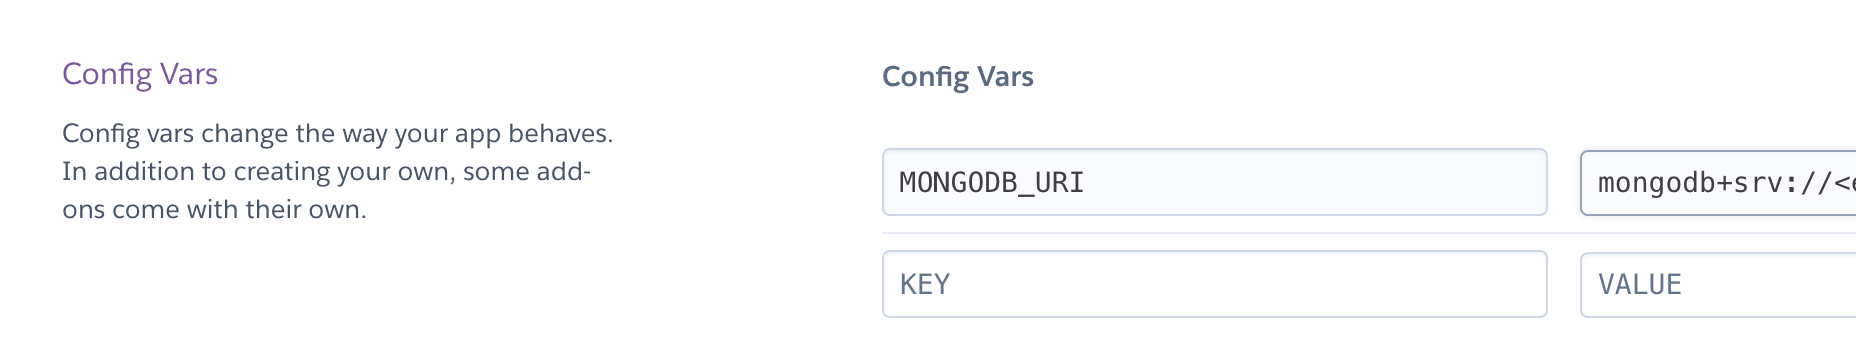
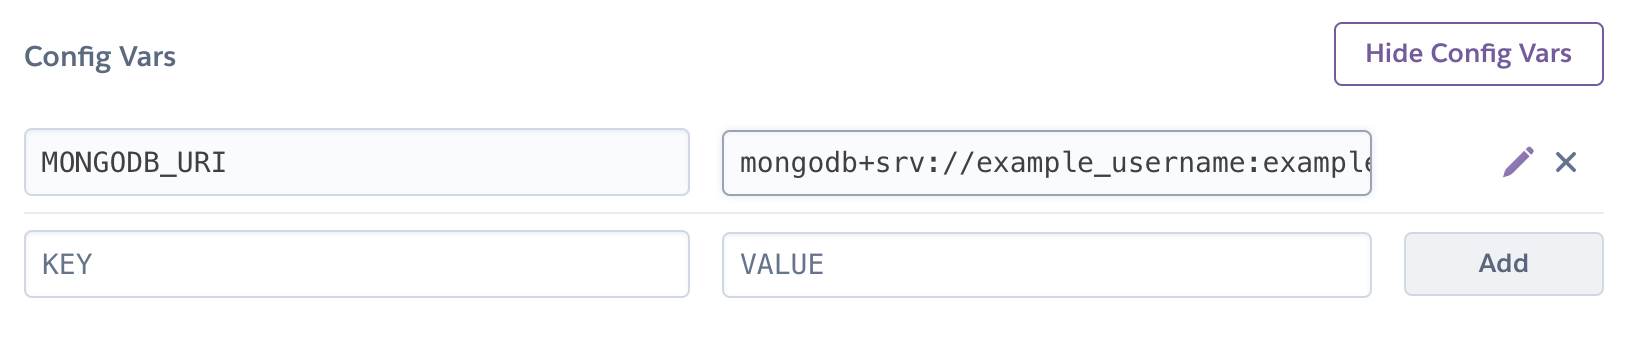
Further updates on Deploy doc

diff --git a/docs/DEPLOY.md b/docs/DEPLOY.md
@@ -11,11 +11,11 @@
 ### Step 1: Set up MongoDB
 
 - Create Atlas cluster
-![Shared Cluster](docs/images/Screenshot-1.png)
+![Shared Cluster](images/Screenshot-1.png)
 - Create username and password
-![username](docs/images/Screenshot-7.png)
+![username](images/Screenshot-7.png)
 - Add IP 0.0.0.0/0 to allow access from all IPs
-![IP](docs/images/Screenshot-10.png)
+![IP](images/Screenshot-10.png)
 - Wait for cluster to be created
 - Press connect button
   - Connect using MongoDB's native drivers
@@ -39,11 +39,11 @@
 
 - Go to APIs & Services > Credentials 
 - Press create credentials button > OAuth client ID
-![Creds](docs/images/Screenshot-2.png)
+![Creds](images/Screenshot-2.png)
 - Select Web Application as application type
 - Name the client ID whatever you would like
   - Go to `src/config/passport.ts` and replace clientID's string with your own as well as clientSecret's string with your own
-  ![passport](docs/images/Screenshot-3.png)
+  ![passport](images/Screenshot-3.png)
   - Commit and push diffs
     - `git add src/config/passport.ts`
     - `git commit -m "(any commit message you'd like)"`
@@ -57,11 +57,12 @@
 - Create new Heroku app
 - Connect to fork (under your personal account)
 - Go to app's settings tab
+  - Reveal config vars
   - Create new config var
   - Key is `MONGODB_URI`
   - Value is the connection string from step 1
   - Remeber to enter your username and password into the specified fields of the connection string
-  ![connection_string](docs/images/Screenshot-9.png)
+  ![connection_string](images/Screenshot-9.png)
   - Also remeber that the string should not include the <> characters.
   - Ex: mongod+srv:username:password@cluster0..
 - Choose GitHub for deployment method
@@ -69,9 +70,9 @@
 
 ### Step 5: Set up Google Auth authorization
 - Authorized JavaScript origins should have `http://localhost:5000` as well as your heroku URL (https)
-![passport](docs/images/Screenshot-5.png)
+![passport](images/Screenshot-5.png)
 - Authorized redirect URIs should have `http://localhost:5000/api/v1/auth/google/callback` as well as your heroku URL (https) with `/api/v1/auth/google/callback` appended to the end
-![passport](docs/images/Screenshot-6.png)
+![passport](images/Screenshot-6.png)
 
 ### Development on localhost
 
